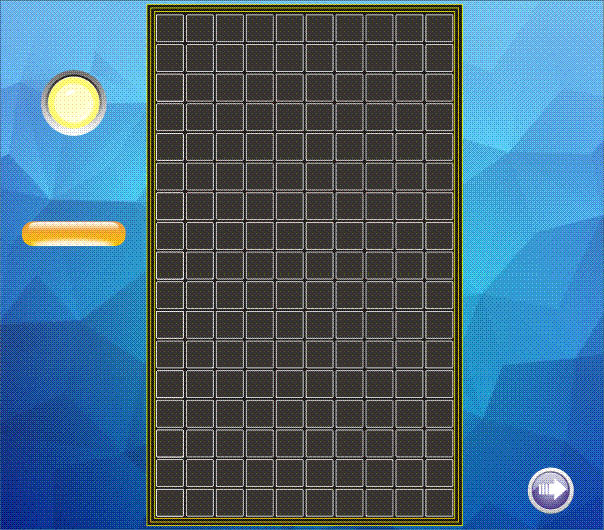
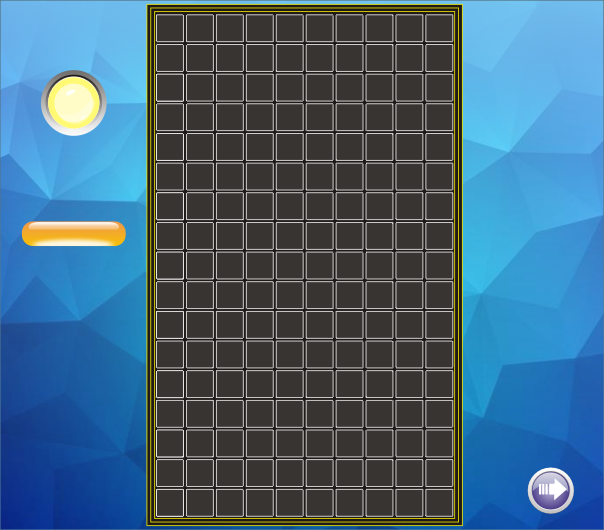
1. change the background pic 2. add constant variable of each item start position 3. add constant variable of speed level 4. use X for vertical calculation and Y for horizontal calculation 5. add function to create a new item 6. modify function to move an item

diff --git a/tetris/src/main/webapp/resources/js/const.js b/tetris/src/main/webapp/resources/js/const.js
@@ -49,10 +49,41 @@ var CELL_H = 30;// 游戏版一个方格高度
 /**
  * 游戏版格子数目
  */
-var PLAYBOARD_H = 10;// 游戏版水平格子数目
-var PLAYBOARD_V = 17;// 游戏版垂直格子数目
+var PLAYBOARD_MAX_W = 10;// 游戏版水平格子数目
+var PLAYBOARD_MAX_H = 17;// 游戏版垂直格子数目
 
 /**
- * 速度设定
+ * 速度设定，表示每多少毫秒下降一格
  */
-var SPEED_LVL_1 = 2;
+var SPEED_LV = [ 1000, 800, 600, 400, 200, 100, 50 ];
+
+/**
+ * 每个Item初始化位置
+ */
+var ITEM_START = [//
+[// type 1
+[ [ 0, 4 ], [ 1, 4 ], [ 1, 5 ], [ 2, 5 ] ],// direct 1
+[ [ 0, 4 ], [ 0, 5 ], [ 1, 3 ], [ 1, 4 ] ],// direct 2
+[ [ 0, 4 ], [ 1, 4 ], [ 1, 5 ], [ 2, 5 ] ],// direct 3
+[ [ 0, 4 ], [ 1, 4 ], [ 1, 5 ], [ 2, 5 ] ] // direct 4
+], [// type 2
+[ [ 0, 4 ], [ 0, 5 ], [ 1, 3 ], [ 1, 4 ] ],// direct 1
+[ [ 0, 4 ], [ 1, 4 ], [ 1, 5 ], [ 2, 5 ] ],// direct 2
+[ [ 0, 4 ], [ 1, 4 ], [ 1, 5 ], [ 2, 5 ] ],// direct 3
+[ [ 0, 4 ], [ 1, 4 ], [ 1, 5 ], [ 2, 5 ] ] // direct 4
+], [// type 3
+[ [ 0, 4 ], [ 1, 4 ], [ 1, 5 ], [ 2, 5 ] ],// direct 1
+[ [ 0, 4 ], [ 1, 4 ], [ 1, 5 ], [ 2, 5 ] ],// direct 2
+[ [ 0, 4 ], [ 1, 4 ], [ 1, 5 ], [ 2, 5 ] ],// direct 3
+[ [ 0, 4 ], [ 1, 4 ], [ 1, 5 ], [ 2, 5 ] ] // direct 4
+], [// type 4
+[ [ 0, 4 ], [ 1, 4 ], [ 1, 5 ], [ 2, 5 ] ],// direct 1
+[ [ 0, 4 ], [ 1, 4 ], [ 1, 5 ], [ 2, 5 ] ],// direct 2
+[ [ 0, 4 ], [ 1, 4 ], [ 1, 5 ], [ 2, 5 ] ],// direct 3
+[ [ 0, 4 ], [ 1, 4 ], [ 1, 5 ], [ 2, 5 ] ] // direct 4
+], [// type 5
+[ [ 0, 4 ], [ 1, 4 ], [ 1, 5 ], [ 2, 5 ] ],// direct 1
+[ [ 0, 4 ], [ 1, 4 ], [ 1, 5 ], [ 2, 5 ] ],// direct 2
+[ [ 0, 4 ], [ 1, 4 ], [ 1, 5 ], [ 2, 5 ] ],// direct 3
+[ [ 0, 4 ], [ 1, 4 ], [ 1, 5 ], [ 2, 5 ] ] // direct 4
+] ];

diff --git a/tetris/src/main/webapp/resources/js/mylib.js b/tetris/src/main/webapp/resources/js/mylib.js
@@ -31,24 +31,37 @@ var EPG = {
 
 	createImg : function(imageNo, posX, posY) {
 		var image = document.createElement("img");
-		image.id = imageNo + "";
 		image.src = "/resources/images/bricks/" + imageNo + ".png";
 		image.style.position = "absolute";
-		image.style.left = posX + "px";
-		image.style.top = posY + "px";
+		image.style.top = posX + "px";
+		image.style.left = posY + "px";
 		EPG.getElement("playboard").appendChild(image);
 		return image;
 	},
 
+	createItem : function(itemNo) {
+		var type = parseInt(parseInt(itemNo) / 10 - 1);
+		var direct = parseInt(parseInt(itemNo) % 10 - 1);
+		var item = {
+			bricks : []
+		};
+		for (var i = 0; i < ITEM_START[type][direct].length; i++) {
+			var image = EPG.createImg(itemNo, ITEM_START[type][direct][i][0] * CELL_H, ITEM_START[type][direct][i][1] * CELL_W);
+			item.bricks.push(image);
+		}
+		return item;
+	},
+
 	moveImg : function(image, posX, posY) {
-		image.style.left = posX;
-		image.style.top = posY;
+		image.style.top = posX;
+		image.style.left = posY;
 	},
 
 	moveItem : function(item, top, left) {
-		for (var i = 0; i < item.length; i++) {
-			item[i].style.top = parseInt(item[i].style.top.substring(0, item[i].style.top.length - 2)) + top + "px";
-			item[i].style.left = parseInt(item[i].style.left.substring(0, item[i].style.left.length - 2)) + left + "px";
+		for (var i = 0; i < item.bricks.length; i++) {
+			var posX = parseInt(item.bricks[i].style.top.substring(0, item.bricks[i].style.top.indexOf("px")));
+			var posY = parseInt(item.bricks[i].style.left.substring(0, item.bricks[i].style.left.indexOf("px")));
+			EPG.moveImg(item.bricks[i], posX + top, posY + left);
 		}
 	}
 };

diff --git a/tetris/src/main/webapp/resources/js/init.js b/tetris/src/main/webapp/resources/js/init.js
@@ -2,29 +2,21 @@ document.onkeydown = function(e) {
 	e = e || window.event;
 	var keyCode = e.which || e.keyCode;
 	if (keyCode == KEY_RIGHT || keyCode == PC_KEY_RIGHT) {
-		Tetris.pressRight();
+		Tetris.pressRight(item);
 	} else if (keyCode == KEY_LEFT || keyCode == PC_KEY_LEFT) {
-		Tetris.pressLeft();
+		Tetris.pressLeft(item);
 	} else if (keyCode == KEY_UP || keyCode == PC_KEY_UP) {
-		Tetris.pressUp();
+		Tetris.pressUp(item);
 	} else if (keyCode == KEY_DOWN || keyCode == PC_KEY_DOWN) {
-		Tetris.pressDown();
+		Tetris.pressDown(item);
 	}
 }
 
-var image1 = EPG.createImg(11, 0, CELL_H * 0);
-var image2 = EPG.createImg(11, 0, CELL_H * 1);
-var image3 = EPG.createImg(11, CELL_W * 1, CELL_H * 1);
-var image4 = EPG.createImg(11, CELL_W * 1, CELL_H * 2);
-var item = [];
-item.push(image1);
-item.push(image2);
-item.push(image3);
-item.push(image4);
+var item = EPG.createItem(11);
 
 var i = 0;
 var mytimer = setInterval(function() {
-	if (i < PLAYBOARD_V - 3) {
+	if (i < PLAYBOARD_MAX_H - 3) {
 		EPG.moveItem(item, CELL_H, 0);
 		i++;
 	} else {
@@ -34,14 +26,5 @@ var mytimer = setInterval(function() {
 
 function clearMytimer(item) {
 	clearInterval(mytimer);
-	console.log(item);
-	var image1 = EPG.createImg(11, 0, CELL_H * 0);
-	var image2 = EPG.createImg(11, 0, CELL_H * 1);
-	var image3 = EPG.createImg(11, CELL_W * 1, CELL_H * 1);
-	var image4 = EPG.createImg(11, CELL_W * 1, CELL_H * 2);
-	var item = [];
-	item.push(image1);
-	item.push(image2);
-	item.push(image3);
-	item.push(image4);
+	var item = EPG.createItem(12);
 }

diff --git a/tetris/src/main/webapp/resources/js/remoteoperation.js b/tetris/src/main/webapp/resources/js/remoteoperation.js
@@ -3,20 +3,16 @@
  */
 
 var Tetris = {
-	pressLeft : function() {
-		var image = EPG.getElement("11_img");
-		image.style.left = parseInt(image.style.left) - 5 + 'px';
+	pressLeft : function(item) {
+		EPG.moveItem(item, 0, -CELL_W);
 	},
 	pressRight : function() {
-		var image = EPG.getElement("11_img");
-		image.style.left = parseInt(image.style.left) + 5 + 'px';
+		EPG.moveItem(item, 0, CELL_W);
 	},
 	pressUp : function() {
-		var image = EPG.getElement("11_img");
-		image.style.top = parseInt(image.style.top) - 5 + 'px';
+		EPG.moveItem(item, -CELL_H, 0);
 	},
 	pressDown : function() {
-		var image = EPG.getElement("11_img");
-		image.style.top = parseInt(image.style.top) + 5 + 'px';
+		EPG.moveItem(item, CELL_H, 0);
 	}
 }
